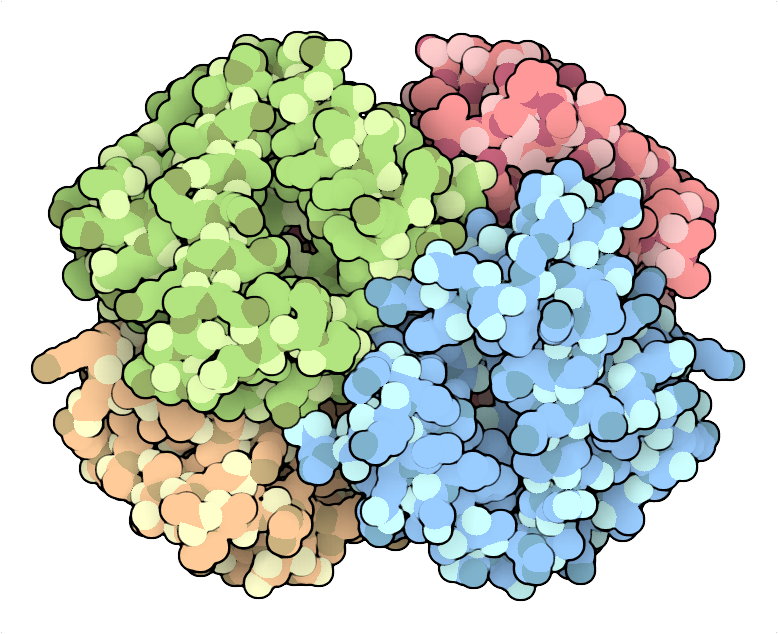
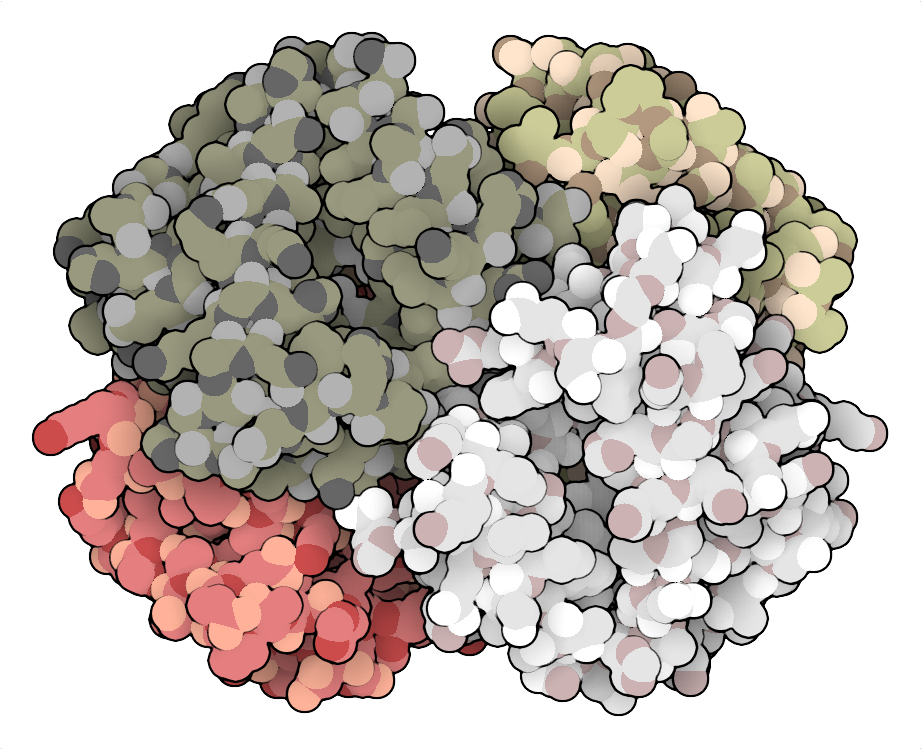
Add .gitignore for temporary files, update input file with new atom coordinates, enhance color palette options in Streamlit, and improve UI for color selection and preview functionality.

diff --git a/app.py b/app.py
@@ -96,29 +96,53 @@ ATOM_SIZES = {
     'Ni': 1.2,   # Nickel
 }
 
-# Add pastel color palettes for different chains
-PASTEL_PALETTES = {
-    'A': ['#FFB3BA', '#BAFFC9', '#BAE1FF', '#FFFFBA', '#FFB3FF'],  # Soft pink, mint, blue, yellow, lavender
-    'B': ['#FFD3B6', '#DCEDC1', '#B5EAD7', '#C7CEEA', '#E2F0CB'],  # Peach, sage, aqua, periwinkle, lime
-    'C': ['#F8B195', '#F67280', '#C06C84', '#6C5B7B', '#355C7D'],  # Coral, rose, mauve, purple, navy
-    'D': ['#A8E6CF', '#DCEDC1', '#FFD3B6', '#FFAAA5', '#FF8B94'],  # Mint, sage, peach, salmon, pink
-    'E': ['#B5EAD7', '#C7CEEA', '#E2F0CB', '#FFDAC1', '#FFB7B2'],  # Aqua, periwinkle, lime, peach, coral
-    'F': ['#FFB3BA', '#BAFFC9', '#BAE1FF', '#FFFFBA', '#FFB3FF'],  # Soft pink, mint, blue, yellow, lavender
-    'G': ['#FFD3B6', '#DCEDC1', '#B5EAD7', '#C7CEEA', '#E2F0CB'],  # Peach, sage, aqua, periwinkle, lime
-    'H': ['#F8B195', '#F67280', '#C06C84', '#6C5B7B', '#355C7D'],  # Coral, rose, mauve, purple, navy
+# Color palettes for chain base colors
+MODERN_PASTELS = { 'A': '#FFB3BA', 'B': '#BAFFC9', 'C': '#BAE1FF', 'D': '#FFFFBA', 'E': '#FFB3FF', 'F': '#B5EAD7', 'G': '#C7CEEA', 'H': '#E2F0CB' }
+EARTH_TONES = { 'A': '#A68A64', 'B': '#C2B280', 'C': '#8C6A4A', 'D': '#BFAE99', 'E': '#A3A380', 'F': '#D6C6B9', 'G': '#B7A196', 'H': '#7D7461' }
+OCEAN_BREEZE = { 'A': '#00B4D8', 'B': '#90E0EF', 'C': '#48CAE4', 'D': '#ADE8F4', 'E': '#0077B6', 'F': '#0096C7', 'G': '#023E8A', 'H': '#CAF0F8' }
+SUNSET_VIBES = { 'A': '#FF9E00', 'B': '#FF6B6B', 'C': '#4ECDC4', 'D': '#FFE66D', 'E': '#FF6B6B', 'F': '#FF9E00', 'G': '#4ECDC4', 'H': '#FFE66D' }
+FOREST_DREAM = { 'A': '#386641', 'B': '#6A994E', 'C': '#A7C957', 'D': '#F2E8CF', 'E': '#BC4749', 'F': '#386641', 'G': '#6A994E', 'H': '#A7C957' }
+NEON_NIGHTS = { 'A': '#FF61D2', 'B': '#FEFF86', 'C': '#4831D4', 'D': '#3D155F', 'E': '#00FF9F', 'F': '#FF00FF', 'G': '#00FFFF', 'H': '#FF6B6B' }
+DESERT_SUNSET = { 'A': '#FFB997', 'B': '#F67E7D', 'C': '#843B62', 'D': '#621940', 'E': '#211A1D', 'F': '#F67E7D', 'G': '#FFB997', 'H': '#843B62' }
+ARCTIC_FROST = { 'A': '#E2ECE9', 'B': '#BEE1E6', 'C': '#CDD6DD', 'D': '#BEE1E6', 'E': '#E2ECE9', 'F': '#CDD6DD', 'G': '#BEE1E6', 'H': '#E2ECE9' }
+MIDNIGHT_OCEAN = { 'A': '#0A2463', 'B': '#3E92CC', 'C': '#2A628F', 'D': '#18435A', 'E': '#0A2463', 'F': '#3E92CC', 'G': '#2A628F', 'H': '#18435A' }
+AUTUMN_BREEZE = { 'A': '#D4A373', 'B': '#FEFAE0', 'C': '#E9EDC9', 'D': '#CCD5AE', 'E': '#D4A373', 'F': '#FEFAE0', 'G': '#E9EDC9', 'H': '#CCD5AE' }
+SPRING_BLOOM = { 'A': '#F6D6AD', 'B': '#F6B8B8', 'C': '#F6D6AD', 'D': '#B8F6B8', 'E': '#B8D6F6', 'F': '#D6B8F6', 'G': '#F6B8D6', 'H': '#B8F6D6' }
+DUSK_VIBES = { 'A': '#2D3047', 'B': '#419D78', 'C': '#E0A458', 'D': '#C04CFD', 'E': '#2D3047', 'F': '#419D78', 'G': '#E0A458', 'H': '#C04CFD' }
+WINTER_MINT = { 'A': '#A3F7BF', 'B': '#25CED1', 'C': '#FFA400', 'D': '#FF6363', 'E': '#F8E9A1', 'F': '#A3F7BF', 'G': '#25CED1', 'H': '#FFA400' }
+SUMMER_DAYS = { 'A': '#F7B32B', 'B': '#F72C25', 'C': '#2D1E2F', 'D': '#F7B32B', 'E': '#F72C25', 'F': '#2D1E2F', 'G': '#F7B32B', 'H': '#F72C25' }
+BOLD_RETRO = { 'A': '#F94144', 'B': '#F3722C', 'C': '#F8961E', 'D': '#F9844A', 'E': '#F9C74F', 'F': '#90BE6D', 'G': '#43AA8B', 'H': '#577590' }
+CYBER_PUNK = { 'A': '#FF0054', 'B': '#00F6ED', 'C': '#A100FF', 'D': '#F5F5F5', 'E': '#FF0054', 'F': '#00F6ED', 'G': '#A100FF', 'H': '#F5F5F5' }
+VINTAGE_BOOKS = { 'A': '#D8C3A5', 'B': '#EAE7DC', 'C': '#8E8D8A', 'D': '#E98074', 'E': '#E85A4F', 'F': '#D8C3A5', 'G': '#EAE7DC', 'H': '#8E8D8A' }
+TROPICAL_FRUIT = { 'A': '#FFB347', 'B': '#FF6961', 'C': '#77DD77', 'D': '#AEC6CF', 'E': '#CFCFC4', 'F': '#B39EB5', 'G': '#FFB347', 'H': '#FF6961' }
+MONOCHROME_TEAL = { 'A': '#003B36', 'B': '#005F56', 'C': '#008C7A', 'D': '#00BFAE', 'E': '#00E6C3', 'F': '#00FFDD', 'G': '#00FFF7', 'H': '#00FFF7' }
+LAVENDER_FIELDS = { 'A': '#B497BD', 'B': '#8E7DBE', 'C': '#6C5B7B', 'D': '#355C7D', 'E': '#B497BD', 'F': '#8E7DBE', 'G': '#6C5B7B', 'H': '#355C7D' }
+
+AVAILABLE_PALETTES = {
+    'Modern Pastels': MODERN_PASTELS,
+    'Earth Tones': EARTH_TONES,
+    'Ocean Breeze': OCEAN_BREEZE,
+    'Sunset Vibes': SUNSET_VIBES,
+    'Forest Dream': FOREST_DREAM,
+    'Neon Nights': NEON_NIGHTS,
+    'Desert Sunset': DESERT_SUNSET,
+    'Arctic Frost': ARCTIC_FROST,
+    'Midnight Ocean': MIDNIGHT_OCEAN,
+    'Autumn Breeze': AUTUMN_BREEZE,
+    'Spring Bloom': SPRING_BLOOM,
+    'Dusk Vibes': DUSK_VIBES,
+    'Winter Mint': WINTER_MINT,
+    'Summer Days': SUMMER_DAYS,
+    'Bold Retro': BOLD_RETRO,
+    'Cyber Punk': CYBER_PUNK,
+    'Vintage Books': VINTAGE_BOOKS,
+    'Tropical Fruit': TROPICAL_FRUIT,
+    'Monochrome Teal': MONOCHROME_TEAL,
+    'Lavender Fields': LAVENDER_FIELDS
 }
 
-# Base colors for C atoms in each chain
-CHAIN_BASE_COLORS = {
-    'A': '#FF9AA2',  # Rose (modern pastel)
-    'B': '#A2D2FF',  # Sky blue
-    'C': '#B5E48C',  # Mint green
-    'D': '#FFD6A5',  # Peach
-    'E': '#FDFFB6',  # Butter yellow
-    'F': '#D0BFFF',  # Lavender purple
-    'G': '#FFC6FF',  # Pink lavender
-    'H': '#BDE0FE',  # Baby blue
-}
+# Default to Modern Pastels
+CHAIN_BASE_COLORS = MODERN_PASTELS
 
 def create_selection_cards(selected_chains, selected_hetatm, chain_atoms, atom_colors, atom_sizes, chain_residues):
     """Create selection/rendering cards based on user selections."""
@@ -350,7 +374,9 @@ def get_chain_color(chain, atom_index):
 
 def get_atom_color(chain, atom):
     """Get color for an atom based on the chain's base color and atom type."""
-    base_color = CHAIN_BASE_COLORS.get(chain, CHAIN_BASE_COLORS['A'])
+    # Get the selected palette from session state or default to Modern Pastels
+    selected_palette = st.session_state.get('selected_palette', 'Modern Pastels')
+    base_color = AVAILABLE_PALETTES[selected_palette].get(chain, AVAILABLE_PALETTES['Modern Pastels']['A'])
     
     # Convert hex to RGB
     r = int(base_color[1:3], 16)
@@ -459,7 +485,6 @@ def get_chain_residues(atom_lines, selected_chains):
 
 def main():
     st.title("ILLUSTRATE Input File Generator")
-    st.write("Generate input files for the ILLUSTRATE molecular visualization program")
 
     # Initialize session state variables if they don't exist
     if 'preview_image' not in st.session_state:
@@ -481,7 +506,7 @@ def main():
     
     with form_col:
         # Create tabs for different sections
-        tab1, tab2, tab3, tab4 = st.tabs(["Input & Chains", "Coloring & Size", "View Settings", "Generated Input"])
+        tab1, tab2, tab3, tab4 = st.tabs(["Input & Chains", "Coloring & Size", "View Settings", "Illustrate Input"])
         
         with tab1:
             st.subheader("1. Input & Chains")
@@ -524,7 +549,7 @@ def main():
                     selected_chains = []
                     for i, chain in enumerate(sorted(chains)):
                         with chain_cols[i % 4]:
-                            if st.checkbox(f"Chain {chain}", key=f"chain_{chain}"):
+                            if st.checkbox(f"Chain {chain}", key=f"chain_{chain}", value=True):
                                 selected_chains.append(chain)
                     
                     # Show HETATM selection for selected chains
@@ -577,6 +602,25 @@ def main():
         with tab2:
             st.subheader("2. Coloring and Size Scheme")
             if uploaded_file is not None and atom_lines and selected_chains:
+                # Add palette selector
+                st.write("Select Color Palette")
+                selected_palette = st.selectbox(
+                    "Choose a color palette",
+                    options=list(AVAILABLE_PALETTES.keys()),
+                    key='selected_palette'
+                )
+                
+                # Display color preview
+                st.write("Palette Preview")
+                palette_cols = st.columns(8)
+                for i, (chain, color) in enumerate(AVAILABLE_PALETTES[selected_palette].items()):
+                    with palette_cols[i]:
+                        st.markdown(
+                            f'<div style="background-color: {color}; width: 30px; height: 30px; border-radius: 5px;"></div>',
+                            unsafe_allow_html=True
+                        )
+                        st.write(f"Chain {chain}")
+                
                 # Get unique atoms for each selected chain
                 chain_atoms = {}
                 for chain in selected_chains:
@@ -771,7 +815,6 @@ def main():
         
     # Add the new tab content for showing generated input
     with tab4:
-        st.subheader("Generated Input File")
         if uploaded_file is not None and st.session_state.pdb_file and st.session_state.output_file:
             try:
                 # Generate the input file content
@@ -789,7 +832,7 @@ def main():
                 
                 # Display the generated input file in a text area
                 st.text_area(
-                    "ILLUSTRATE Input File",
+                    "",
                     value=input_content,
                     height=400,
                     help="This is the generated input file that will be used by ILLUSTRATE",
@@ -864,17 +907,17 @@ def main():
                 input_file_path = st.session_state.output_file.replace('.ppm', '.inp')
                 with open(input_file_path, "w") as f:
                     f.write(input_content)
-                # st.info(f"Input file saved as: {os.path.abspath(input_file_path)}")
                 
                 # Generate preview
                 with st.spinner("Generating preview..."):
                     preview_image = generate_preview(input_file_path, st.session_state.pdb_file)
                     if preview_image:
+                        # Force a rerun to update the image
                         st.session_state.preview_image = preview_image
-                        # st.success("Preview generated successfully!")
-                        # st.info(f"Output PNG path: {os.path.abspath(preview_image)}")
+                        # st.experimental_rerun()  # REMOVE or comment out this line
                     else:
                         st.session_state.preview_image = None
+                        st.error("Failed to generate preview")
             except Exception as e:
                 st.error(f"An unexpected error occurred: {str(e)}")
                 st.session_state.preview_image = None
